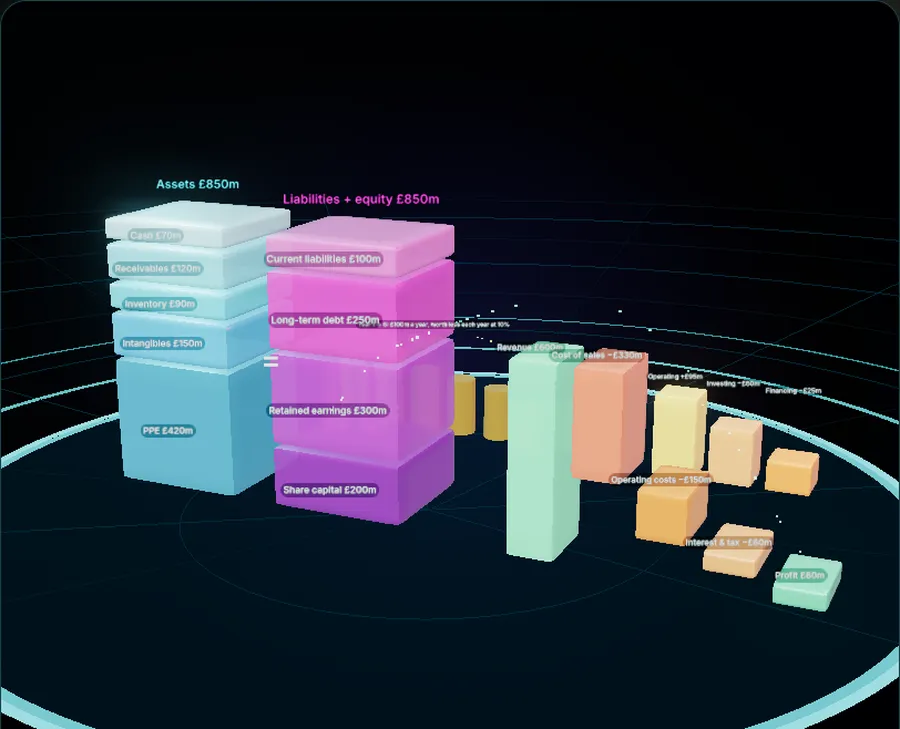
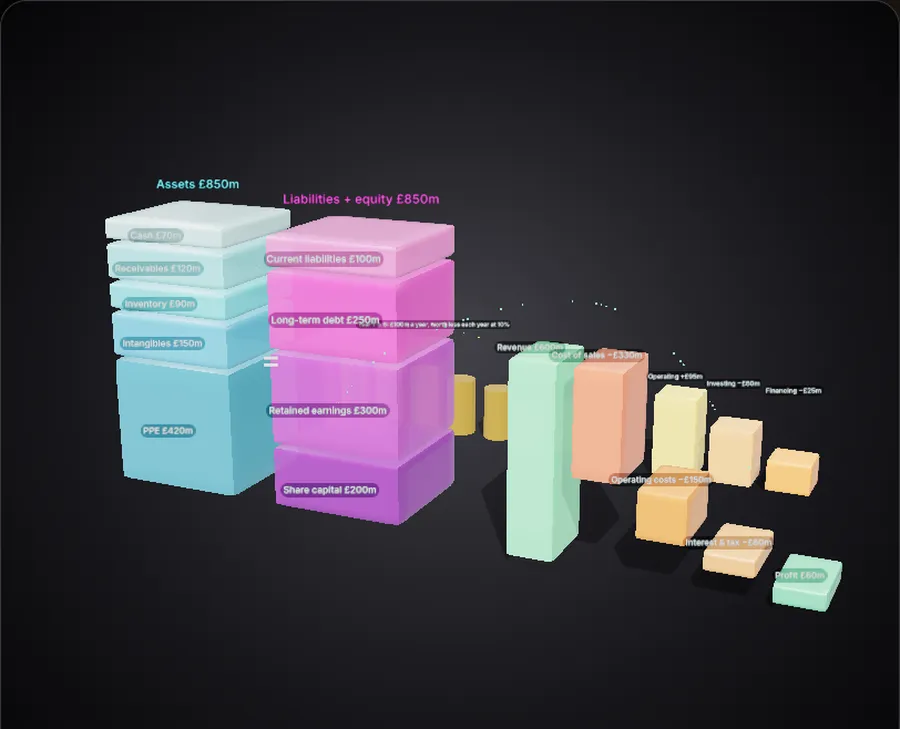
Realistic studio look for every 3D model, and atlas-style muscle layers
All sub-site models now use the anatomy-app look by default: a neutral grey
studio, white light with real shadows, no bloom or additive glow, and real
materials. Holographic skins become see-through skin or glass, glows become
solid colour, and self-lit emissive colour is removed. Materials get colour
texture (muscle striations with pale fascia streaks, mottled tissue, porous
bone) as well as bump detail.

A new wrap() helper builds muscles as curved sheets wrapping the trunk and
limbs, narrowing into pale tendons, with tendinous lines across rectus
abdominis. The body's muscle layer is rebuilt with it, adds trapezius,
latissimus dorsi, the obliques, gluteus maximus, triceps, forearm muscles,
hamstrings and tibialis anterior (each with facts, cards and notes), and is
now shown by default. The athlete's muscles are rebuilt the same way.

Claude-Session: https://claude.ai/code/session_01AmhgVexRWAuqiUPjDozXmm

diff --git a/kit/models/viewer.js b/kit/models/viewer.js
@@ -53,6 +53,27 @@ function detail(kind) {
   return (textures[kind] = t);
 }
 
+// a colour version of a detail texture, multiplied into the material's colour: muscle striations
+// with pale fascia streaks, mottled soft tissue, porous bone
+const tones = {};
+function tone(kind) {
+  if (kind === "none" || !kind) return null;
+  if (tones[kind]) return tones[kind];
+  const src = detail(kind).image, c = document.createElement("canvas"); c.width = src.width; c.height = src.height;
+  const g = c.getContext("2d"); g.drawImage(src, 0, 0);
+  const img = g.getImageData(0, 0, c.width, c.height), d = img.data;
+  const lo = { fibre: 0.62, bone: 0.86, fold: 0.8, tissue: 0.8 }[kind] ?? 0.82;
+  for (let i = 0; i < d.length; i += 4) {
+    let v = lo + (1 - lo) * (d[i] / 255);
+    let r = v, gg = v, b = v;
+    if (kind === "fibre" && d[i] > 235) { r = 1.25; gg = 1.18; b = 1.12; }   // thin pale streaks of fascia between fibre bundles
+    d[i] = Math.min(255, r * 235); d[i + 1] = Math.min(255, gg * 235); d[i + 2] = Math.min(255, b * 235);
+  }
+  g.putImageData(img, 0, 0);
+  const t = new THREE.CanvasTexture(c); t.wrapS = t.wrapT = THREE.RepeatWrapping; t.colorSpace = THREE.SRGBColorSpace;
+  return (tones[kind] = t);
+}
+
 // ---------- materials ----------
 // a hologram that glows at its edges (fresnel), so you see through it: skin, outlines, ghosts
 function holo(colour = "#5ef0ff", base = "#0d3b52", opacity = 0.55) {
@@ -73,6 +94,7 @@ function mat(c, { detail: d = "tissue", repeat = 2, bump = 0.6, ...extra } = {})
   const m = new THREE.MeshPhysicalMaterial({ color: c, roughness: 0.42, metalness: 0.02, clearcoat: 0.55, clearcoatRoughness: 0.35, sheen: 0.25, sheenColor: new THREE.Color(c).lerp(new THREE.Color("#ffffff"), 0.4), emissive: new THREE.Color(c).multiplyScalar(0.07), ...extra });
   const t = detail(d);
   if (t) { m.bumpMap = t.clone(); m.bumpMap.needsUpdate = true; m.bumpMap.repeat.set(repeat, repeat); m.bumpScale = bump; }
+  if (t && mat.realistic && !extra.map) { m.map = tone(d).clone(); m.map.needsUpdate = true; m.map.repeat.set(repeat, repeat); }
   return m;
 }
 const bone = (c = "#ece5d2") => mat(c, { detail: "bone", repeat: 3, bump: 0.8, roughness: 0.6, clearcoat: 0.15, sheen: 0, emissive: new THREE.Color("#221e15") });
@@ -145,14 +167,48 @@ function cut(geo, pt, n) {
   const out = new THREE.BufferGeometry(); out.setAttribute("position", new THREE.Float32BufferAttribute(keep, 3)); out.computeVertexNormals();
   return out;
 }
-const line = (pts, c, opacity = 0.8) => new THREE.Line(new THREE.BufferGeometry().setFromPoints(pts), new THREE.LineBasicMaterial({ color: c, transparent: true, opacity, blending: THREE.AdditiveBlending, depthWrite: false }));
-export const helpers = { V, holo, mat, bone, glow, limb, tube, taper, blob, lathe, box, text, line, detail, slice, cut };
+const line = (pts, c, opacity = 0.8) => new THREE.Line(new THREE.BufferGeometry().setFromPoints(pts), new THREE.LineBasicMaterial({ color: c, transparent: true, opacity, blending: mat.realistic ? THREE.NormalBlending : THREE.AdditiveBlending, depthWrite: false }));
+// a muscle that wraps part of the way round a limb or the trunk, like the muscle layer in an
+// anatomy atlas: a curved sheet over the axis a→b, between angles th0 and th1 (0 = lateral,
+// π/2 = front, −π/2 = back; side −1 mirrors it for the patient's right), lying on a surface of
+// radius r(t) (sx, sz squash it into an ellipse), swelling to `thick` in its belly. Its two ends
+// turn into pale tendon, and `bands` (fractions along it) add tendinous lines across it.
+function wrap({ a, b, r, th0, th1, side = 1, sx = 1, sz = 1, thick = 0.012, t0 = 0, t1 = 1, tendon = 0.14, bands = [], narrow = 0.55, colour = "#a8352c", segU = 48, segV = 28, front = new THREE.Vector3(0, 0, 1) }) {
+  const d = b.clone().sub(a).normalize(), Z = front.clone().sub(d.clone().multiplyScalar(front.dot(d))).normalize(), X = new THREE.Vector3().crossVectors(d, Z).normalize();
+  if (X.x < 0) X.negate();   // angle 0 always points to the model's +x side, whichever way the axis runs
+  const len = a.distanceTo(b), pos = [], uv = [], col = [], idx = [], c = new THREE.Color(colour), pale = new THREE.Color("#efe6d8"), tmp = new THREE.Color();
+  const rr = typeof r === "function" ? r : () => r;
+  for (let i = 0; i <= segU; i++) {
+    const u = i / segU, t = t0 + (t1 - t0) * u;
+    for (let j = 0; j <= segV; j++) {
+      // fusiform: the muscle narrows towards its tendons (narrow 0 keeps a flat sheet's full width)
+      const w = 1 - narrow * (1 - Math.sin(Math.PI * u) ** 0.8), vm = 0.5 + (j / segV - 0.5) * w, v = j / segV;
+      const th0s = side < 0 ? Math.PI - th0 : th0, th1s = side < 0 ? Math.PI - th1 : th1, th = th0s + (th1s - th0s) * vm;
+      const belly = Math.sin(Math.PI * u) ** 0.7 * Math.sin(Math.PI * v) ** 0.45;
+      let dip = 1; for (const bd of bands) dip *= 1 - 0.45 * Math.exp(-(((u - bd) / 0.014) ** 2));
+      const R = rr(t) + thick * belly * dip + 0.0015;
+      const p = a.clone().add(d.clone().multiplyScalar(t * len)).add(X.clone().multiplyScalar(Math.cos(th) * R * sx)).add(Z.clone().multiplyScalar(Math.sin(th) * R * sz));
+      pos.push(p.x, p.y, p.z); uv.push(v * Math.max(1, (Math.abs(th1 - th0) * rr(t)) / 0.1), u * Math.max(1, len * (t1 - t0) / 0.06));
+      const tend = Math.max(0, 1 - Math.min(u, 1 - u) / tendon) ** 2.2, line = 1 - dip;
+      tmp.copy(c).lerp(pale, Math.min(1, tend * 0.9 + line * 1.4)); col.push(tmp.r, tmp.g, tmp.b);
+    }
+  }
+  for (let i = 0; i < segU; i++) for (let j = 0; j < segV; j++) { const q = i * (segV + 1) + j; idx.push(q, q + segV + 1, q + 1, q + 1, q + segV + 1, q + segV + 2); }
+  const g = new THREE.BufferGeometry(); g.setAttribute("position", new THREE.Float32BufferAttribute(pos, 3)); g.setAttribute("uv", new THREE.Float32BufferAttribute(uv, 2)); g.setAttribute("color", new THREE.Float32BufferAttribute(col, 3)); g.setIndex(idx); g.computeVertexNormals();
+  const m = mat("#ffffff", { detail: "fibre", repeat: 1, bump: 1.6, roughness: 0.5, clearcoat: 0.45, vertexColors: true, side: THREE.DoubleSide, emissive: new THREE.Color("#000000"), sheen: 0.3, sheenColor: new THREE.Color("#ffc8b8") });
+  return new THREE.Mesh(g, m);
+}
+export const helpers = { V, holo, mat, bone, glow, limb, tube, taper, blob, lathe, box, text, line, detail, slice, cut, wrap };
 
 export async function mountModel(root, siteName, model) {
   const G = model.groups, S = model.structures;
   const cam = { pos: [0, 1, 3.6], target: [0, 0.9, 0], min: 0.06, max: 6, fov: 32, ...model.camera };
   const sliders = [...(model.sliders || []), ...(model.explode === false ? [] : [{ key: "explode", label: "Pull apart", value: 0 }])];
-  root.classList.add("mv"); if (model.look === "studio") root.classList.add("mv-studio");
+  // every model is shown like an anatomy app (studio light, real materials, no glow) unless it asks
+  // for the holographic look with look: "holo"
+  const studio = model.look !== "holo";
+  mat.realistic = studio;
+  root.classList.add("mv"); if (studio) root.classList.add("mv-studio");
   root.innerHTML = `
     <div class="mv-top-row">
       <div class="mv-stage">
@@ -192,11 +248,10 @@ export async function mountModel(root, siteName, model) {
   renderer.outputColorSpace = THREE.SRGBColorSpace;
   // "studio" models (the body) look like an anatomy atlas: a neutral backdrop, white studio light,
   // real shadows and no glow. The rest keep Gradify's holographic look.
-  const studio = model.look === "studio";
   if (studio) { renderer.shadowMap.enabled = true; renderer.shadowMap.type = THREE.PCFSoftShadowMap; renderer.toneMappingExposure = 1.0; }
   const scene = new THREE.Scene();
   const bg = document.createElement("canvas"); bg.width = bg.height = 512;
-  { const g = bg.getContext("2d"), r = g.createRadialGradient(256, 220, 10, 256, 256, 380); r.addColorStop(0, model.bg?.[0] || (studio ? "#4a4a4f" : "#123c4c")); r.addColorStop(0.55, model.bg?.[1] || (studio ? "#2a2a2e" : "#061620")); r.addColorStop(1, studio ? "#141416" : "#020609"); g.fillStyle = r; g.fillRect(0, 0, 512, 512); }
+  { const g = bg.getContext("2d"), r = g.createRadialGradient(256, 220, 10, 256, 256, 380); r.addColorStop(0, studio ? "#4a4a4f" : model.bg?.[0] || "#123c4c"); r.addColorStop(0.55, studio ? "#2a2a2e" : model.bg?.[1] || "#061620"); r.addColorStop(1, studio ? "#141416" : "#020609"); g.fillStyle = r; g.fillRect(0, 0, 512, 512); }   // the studio is always neutral grey
   scene.background = new THREE.CanvasTexture(bg); scene.background.colorSpace = THREE.SRGBColorSpace;
   const pmrem = new THREE.PMREMGenerator(renderer);
   scene.environment = pmrem.fromScene(new RoomEnvironment(), 0.04).texture;
@@ -250,8 +305,18 @@ export async function mountModel(root, siteName, model) {
   const body = new THREE.Group(); scene.add(body);
   const groups = {}; for (const k of Object.keys(G)) { groups[k] = new THREE.Group(); groups[k].visible = !G[k].off; body.add(groups[k]); }
   const pickables = [], parts = {}, ticks = [], flows = [], onSlider = {}, attached = [];
+  // in the studio look, the holographic helpers make real materials instead: see-through skin or
+  // glass in place of the fresnel hologram, solid colour in place of additive glow, no self-lighting
+  const studioHolo = (colour = "#5ef0ff", base, opacity = 0.35) => {
+    const skinTone = colour === "#5ef0ff";
+    const m = new THREE.MeshPhysicalMaterial({ color: skinTone ? "#d4a184" : colour, roughness: skinTone ? 0.55 : 0.2, sheen: skinTone ? 0.7 : 0, sheenColor: new THREE.Color("#ffd6c2"), clearcoat: skinTone ? 0.08 : 0.6, transparent: true, opacity: Math.min(0.45, opacity), depthWrite: false });
+    m.uniforms = { uOpacity: { get value() { return m.opacity; }, set value(v) { m.opacity = Math.min(0.6, v); } } };   // models fade skin through uOpacity
+    return m;
+  };
+  const studioGlow = (c, opacity = 0.9) => new THREE.MeshBasicMaterial({ color: c, transparent: opacity < 1, opacity, depthWrite: opacity >= 1 });
+  const studioMat = (c, o = {}) => helpers.mat(c, { ...o, emissive: o.emissive ? new THREE.Color(o.emissive).multiplyScalar(0.25) : new THREE.Color("#000000") });
   const k = {
-    THREE, ...helpers, scene, camera, root: body, groups,
+    THREE, ...helpers, ...(studio ? { holo: studioHolo, glow: studioGlow, mat: studioMat } : {}), scene, camera, root: body, groups,
     add(id, mesh) {
       if (!S[id]) throw new Error(`No structure called ${id}`);
       // a mesh, or a group of meshes that moves as one (a heart of chambers, a lung of lobes)
@@ -271,7 +336,7 @@ export async function mountModel(root, siteName, model) {
       const geo = new THREE.BufferGeometry(), pos = new Float32Array(n * 3), seeds = [];
       for (let i = 0; i < n; i++) seeds.push([i % curves.length, Math.random()]);
       geo.setAttribute("position", new THREE.BufferAttribute(pos, 3));
-      const pts = new THREE.Points(geo, new THREE.PointsMaterial({ color: colour, size, transparent: true, opacity: 0.95, blending: THREE.AdditiveBlending, depthWrite: false }));
+      const pts = new THREE.Points(geo, new THREE.PointsMaterial({ color: colour, size: studio ? size * 0.7 : size, transparent: true, opacity: studio ? 0.85 : 0.95, blending: studio ? THREE.NormalBlending : THREE.AdditiveBlending, depthWrite: false }));
       pts.frustumCulled = false;
       flows.push({ pts, curves, seeds, speed, pos });
       (grp ? groups[grp] : body).add(pts);

diff --git a/kit/models/athlete.js b/kit/models/athlete.js
@@ -118,13 +118,13 @@ export default {
   motion: "Running stride and heartbeat",
   camera: { pos: [1.4, 1.1, 3.0], target: [0, 0.95, 0], min: 0.05, max: 6 },
   views: { Front: [[0, 1.0, 3.4], [0, 0.95, 0]], Side: [[3.4, 1.0, 0], [0, 0.95, 0]], Back: [[0, 1.0, -3.4], [0, 0.95, 0]], Arms: [[0.9, 1.3, 1.1], [0.15, 1.25, 0]], Legs: [[0.9, 0.5, 1.4], [0.05, 0.5, 0]] },
-  sliders: [{ key: "skin", label: "Skin", value: 35 }],
+  sliders: [{ key: "skin", label: "Skin", value: 0 }],
   labelMax: 0.6,
   explode: false,
   build(k) {
     const { THREE, V, holo, mat, bone, limb, blob, add, decor } = k;
     const skinMat = holo(), M = (c) => mat(c, { detail: "fibre", repeat: 1, bump: 1.4, roughness: 0.45, clearcoat: 0.4 });
-    const red = M("#d24a40"), red2 = M("#b83a35"), b = bone();
+    const b = bone();
     // a rig of joints that the stride animates; muscles and skin hang off the segments
     const rig = {};
     const seg = (name, parent, pos) => { const g = new THREE.Group(); g.position.copy(pos); (parent ? rig[parent] : null)?.add(g) ?? decor(g); rig[name] = g; return g; };
@@ -146,31 +146,47 @@ export default {
       rig["arm" + n].add(limb(V(0, 0, 0), V(0, -0.28, 0), 0.045, skinMat)); rig["fore" + n].add(limb(V(0, 0, 0), V(0, -0.3, 0), 0.035, skinMat));
       for (const [g, a, bb, r] of [["thigh", 0, -0.43, 0.014], ["shin", 0, -0.42, 0.011], ["arm", 0, -0.28, 0.01], ["fore", 0, -0.29, 0.008]]) { const m = limb(V(0, a, 0), V(0, bb, 0), r, b); rig[g + n].add(m); }
     }
-    // muscles, added to their segments so they move with the stride
+    // muscles, wrapped round each segment like an anatomy figure's muscle layer, and added to the
+    // segments so they move with the stride
     const put = (id, parent, mesh) => { rig[parent].add(mesh); add(id, mesh); return mesh; };
+    const P = Math.PI, col = "#b03a30";
+    // the trunk's surface (in pelvis coordinates), matching the torso shape above
+    const trunkR = (y) => { const yl = y - 0.24, base = 0.16 * Math.sqrt(Math.max(0.02, 1 - (yl / 0.248) ** 2)); return base * (yl > 0.1 ? 1 + (yl - 0.1) * 1.2 : 1); };
+    const trunk = (id, seg, y0, y1, th0, th1, sd, o = {}) => { const off = seg === "chest" ? 0.45 : 0; return put(id, seg, k.wrap({ a: V(0, y0 - off, 0), b: V(0, y1 - off, 0), r: (t) => Math.max(o.min || 0, trunkR(y0 + (y1 - y0) * t)), sz: 0.66, th0, th1, side: sd, narrow: 0.15, colour: col, ...o })); };
     for (const sd of [-1, 1]) {
       const n = sd < 0 ? "R" : "L";
-      const del = new THREE.Mesh(blob(0.045, 0.8, 1.2, 1, (v) => { if (v.y < 0) { v.x *= 1 + v.y * 4; v.z *= 1 + v.y * 4; } }), red); del.position.set(0, -0.02, 0); put("deltoid", "arm" + n, del);
-      const pec = new THREE.Mesh(blob(0.075, 1, 0.7, 0.22), red2); pec.position.set(sd * 0.08, -0.06, 0.08); pec.rotation.y = sd * 0.3; put("pectoralis", "chest", pec);
-      const bic = new THREE.Mesh(blob(0.032, 0.9, 3.4, 1), red); bic.position.set(0, -0.14, 0.03); put("biceps", "arm" + n, bic);
-      const tri = new THREE.Mesh(blob(0.034, 0.9, 3.4, 1), red2); tri.position.set(0, -0.13, -0.035); put("biceps", "arm" + n, tri);
-      const lat = new THREE.Mesh(blob(0.1, 0.6, 1.6, 0.25), red2); lat.position.set(sd * 0.1, -0.14, -0.085); lat.rotation.z = sd * -0.2; put("lats", "chest", lat);
-      const trap = new THREE.Mesh(blob(0.06, 1, 0.9, 0.22), red); trap.position.set(sd * 0.055, 0.03, -0.075); put("lats", "chest", trap);
-      const obl = new THREE.Mesh(blob(0.07, 0.5, 1.3, 0.6), red2); obl.position.set(sd * 0.12, 0.2, 0.05); put("abdominals", "pelvis", obl);
-      const ere = new THREE.Mesh(blob(0.03, 0.8, 7, 0.9), red); ere.position.set(sd * 0.035, 0.25, -0.09); put("erector", "pelvis", ere);
-      const glu = new THREE.Mesh(blob(0.085, 1, 1, 0.8), red2); glu.position.set(sd * 0.085, -0.04, -0.07); put("glutes", "pelvis", glu);
-      const quad = new THREE.Mesh(blob(0.065, 1, 3.3, 0.9), red); quad.position.set(0, -0.2, 0.035); put("quadriceps", "thigh" + n, quad);
-      const ham = new THREE.Mesh(blob(0.055, 1, 3.4, 0.9), red2); ham.position.set(0, -0.21, -0.04); put("hamstrings", "thigh" + n, ham);
-      const calf = new THREE.Mesh(blob(0.045, 1, 2.6, 1.05, (v) => { if (v.y < 0) { v.x *= 1 + v.y * 5; v.z *= 1 + v.y * 5; } }), red); calf.position.set(0, -0.12, -0.04); put("calves", "shin" + n, calf);
-      // joints
-      const sj = new THREE.Mesh(new THREE.SphereGeometry(0.035, 24, 24), mat("#7ee0ff", { detail: "none", transmission: 0.4, thickness: 0.05, roughness: 0.2 })); put("shoulderJoint", "arm" + n, sj);
-      const kn = new THREE.Mesh(new THREE.SphereGeometry(0.035, 24, 24), mat("#7ee0ff", { detail: "none", transmission: 0.4, thickness: 0.05, roughness: 0.2 })); put("knee", "shin" + n, kn);
-      const hp = new THREE.Mesh(new THREE.SphereGeometry(0.038, 24, 24), mat("#7ee0ff", { detail: "none", transmission: 0.4, thickness: 0.05, roughness: 0.2 })); put("hip", "thigh" + n, hp);
+      const seg = (id, parent, len, r, th0, th1, o = {}) => put(id, parent, k.wrap({ a: V(0, 0, 0), b: V(0, -len, 0), r, th0, th1, side: sd, colour: col, ...o }));
+      trunk("pectoralis", "chest", 0.29, 0.45, 0.1 * P, 0.49 * P, sd, { thick: 0.018, tendon: 0.06, narrow: 0.3 });
+      trunk("lats", "chest", 0.08, 0.42, 0.06 * P, -0.45 * P, sd, { thick: 0.012, tendon: 0.1 });
+      trunk("lats", "chest", 0.38, 0.5, -0.2 * P, -0.49 * P, sd, { thick: 0.012, tendon: 0.12, min: 0.07 });   // trapezius
+      trunk("abdominals", "pelvis", 0.02, 0.3, 0.385 * P, 0.49 * P, sd, { thick: 0.012, tendon: 0.04, bands: [0.45, 0.65, 0.85], narrow: 0.1 });
+      trunk("abdominals", "pelvis", 0.04, 0.34, -0.06 * P, 0.4 * P, sd, { thick: 0.009, tendon: 0.08 });   // obliques
+      trunk("erector", "pelvis", 0.04, 0.42, -0.42 * P, -0.5 * P, sd, { thick: 0.014, tendon: 0.1, narrow: 0.2 });
+      trunk("glutes", "pelvis", -0.12, 0.08, -0.04 * P, -0.47 * P, sd, { thick: 0.03, tendon: 0.1, min: 0.13 });
+      seg("deltoid", "arm" + n, 0.12, (t) => 0.048 - 0.01 * t, -0.42 * P, 0.55 * P, { t0: -0.2, thick: 0.014, tendon: 0.1 });
+      seg("biceps", "arm" + n, 0.28, (t) => 0.042 - 0.008 * t, 0.25 * P, 0.75 * P, { t0: 0.15, t1: 0.95, thick: 0.013 });
+      seg("biceps", "arm" + n, 0.28, (t) => 0.042 - 0.008 * t, -0.8 * P, -0.15 * P, { t0: 0.1, t1: 0.92, thick: 0.013 });   // triceps
+      seg("biceps", "fore" + n, 0.3, (t) => 0.034 - 0.012 * t, -0.95 * P, 0.95 * P, { t0: 0.02, t1: 0.8, thick: 0.01, tendon: 0.28 });   // forearm
+      seg("quadriceps", "thigh" + n, 0.43, (t) => 0.07 - 0.022 * t, -0.05 * P, 0.95 * P, { t0: 0.05, t1: 0.97, thick: 0.018, tendon: 0.12 });
+      seg("hamstrings", "thigh" + n, 0.43, (t) => 0.07 - 0.022 * t, -0.95 * P, -0.1 * P, { t0: 0.1, t1: 0.94, thick: 0.015, tendon: 0.14 });
+      seg("calves", "shin" + n, 0.42, (t) => 0.046 - 0.018 * t, -0.95 * P, -0.05 * P, { t0: 0.03, t1: 0.62, thick: 0.022, tendon: 0.16 });
+      seg("calves", "shin" + n, 0.42, (t) => 0.046 - 0.018 * t, 0.12 * P, 0.48 * P, { t0: 0.08, t1: 0.88, thick: 0.008, tendon: 0.3 });   // tibialis anterior
+      const tend = mat("#ece2d0", { detail: "fibre", repeat: 1, bump: 0.4, roughness: 0.35, clearcoat: 0.6 });
+      rig["shin" + n].add(limb(V(0, -0.24, -0.055), V(0, -0.42, -0.04), 0.006, tend));   // Achilles tendon
+      const hand = new THREE.Mesh(blob(0.035, 0.75, 1.5, 0.95), tend); hand.position.set(0, -0.34, 0); rig["fore" + n].add(hand);
+      const foot = limb(V(0, 0, -0.02), V(0, -0.03, 0.13), 0.026, tend); rig["foot" + n].add(foot);
+      // joints: pale capsules where the bones meet
+      const capsule = () => mat("#e6dccb", { detail: "tissue", repeat: 3, roughness: 0.35, clearcoat: 0.6 });
+      const sj = new THREE.Mesh(new THREE.SphereGeometry(0.035, 24, 24), capsule()); put("shoulderJoint", "arm" + n, sj);
+      const kn = new THREE.Mesh(new THREE.SphereGeometry(0.035, 24, 24), capsule()); put("knee", "shin" + n, kn);
+      const hp = new THREE.Mesh(new THREE.SphereGeometry(0.038, 24, 24), capsule()); put("hip", "thigh" + n, hp);
     }
-    for (let i = 0; i < 4; i++) for (const sd of [-1, 1]) { const ab = new THREE.Mesh(blob(0.025, 1, 1.15, 0.45), red); ab.position.set(sd * 0.03, 0.06 + i * 0.065, 0.1); put("abdominals", "pelvis", ab); }
-    const heart = new THREE.Mesh(blob(0.055, 1, 1.15, 0.9, (v) => { if (v.y < 0) { const q = 1 + v.y * 9; v.x *= q; v.z *= q; } }), mat("#ff4d6d", { detail: "fibre", repeat: 2 })); heart.position.set(0.02, -0.12, 0.03); heart.rotation.z = -0.5; put("heart", "chest", heart);
+    // the head: facial muscles over the skull
+    const head2 = new THREE.Mesh(blob(0.1, 0.88, 1.12, 1, (v) => { if (v.y < -0.03 && v.z > 0) v.z *= 0.9; }), M("#b44a3e")); head2.position.set(0, 0.3, 0.01); rig.chest.add(head2);
+    rig.chest.add(limb(V(0, 0.05, -0.01), V(0, 0.2, 0.0), 0.042, M("#a8382e")));   // neck
+    const heart = new THREE.Mesh(blob(0.055, 1, 1.15, 0.9, (v) => { if (v.y < 0) { const q = 1 + v.y * 9; v.x *= q; v.z *= q; } }), mat("#8c2422", { detail: "fibre", repeat: 2 })); heart.position.set(0.02, -0.12, 0.03); heart.rotation.z = -0.5; put("heart", "chest", heart);
     const lungs = [];
-    for (const sd of [-1, 1]) { const lu = new THREE.Mesh(blob(0.09, 0.75, 1.4, 0.75, (v) => { if (v.x * sd < 0) v.x *= 0.45; }), mat("#7cc8ff", { repeat: 5, transmission: 0.2, thickness: 0.05, roughness: 0.5 })); lu.position.set(sd * 0.08, -0.12, 0); put("lungs", "chest", lu); lungs.push(lu); }
+    for (const sd of [-1, 1]) { const lu = new THREE.Mesh(blob(0.09, 0.75, 1.4, 0.75, (v) => { if (v.x * sd < 0) v.x *= 0.45; }), mat("#d18882", { repeat: 6, roughness: 0.55 })); lu.position.set(sd * 0.08, -0.12, 0); put("lungs", "chest", lu); lungs.push(lu); }
     // skin visibility
     const skinMeshes = []; Object.values(rig).forEach((g) => g.traverse((o) => { if (o.material === skinMat) skinMeshes.push(o); }));
     k.slider("skin", (v) => { skinMat.uniforms.uOpacity.value = v; skinMeshes.forEach((m) => { m.visible = v > 0; }); });

diff --git a/kit/models/body.js b/kit/models/body.js
@@ -32,19 +32,19 @@ export default {
     // real skin, not a hologram: fade it in with the slider to see the body's outline over the anatomy
     const skinMat = new THREE.MeshPhysicalMaterial({ color: "#d4a184", roughness: 0.55, sheen: 0.7, sheenColor: new THREE.Color("#ffd6c2"), sheenRoughness: 0.6, clearcoat: 0.08, transparent: true, opacity: 0.3, depthWrite: false, side: THREE.FrontSide });
     const skin = new THREE.Group();
-    const torso = lathe([[0.0, 0.855], [0.06, 0.862], [0.115, 0.89], [0.158, 0.94], [0.17, 1.0], [0.155, 1.06], [0.135, 1.12], [0.142, 1.2], [0.16, 1.3], [0.172, 1.38], [0.175, 1.43], [0.15, 1.475], [0.08, 1.5], [0.05, 1.515], [0.0, 1.52]], skinMat, 128);
-    torso.scale.set(1, 1, 0.6); skin.add(torso);
+    const torso = lathe([[0.0, 0.855], [0.06, 0.862], [0.115, 0.89], [0.158, 0.94], [0.172, 1.0], [0.168, 1.06], [0.162, 1.12], [0.164, 1.2], [0.16, 1.3], [0.172, 1.38], [0.175, 1.43], [0.15, 1.475], [0.08, 1.5], [0.05, 1.515], [0.0, 1.52]], skinMat, 128);
+    torso.scale.set(1.1, 1, 0.86); skin.add(torso);
     skin.add(taper([V(0, 1.49, -0.005), V(0, 1.56, 0.0), V(0, 1.62, 0.01)], 0.052, 0.046, skinMat, 24));
     const head = new THREE.Mesh(blob(0.105, 0.88, 1.16, 1.02, (v) => { if (v.y < -0.03 && v.z > 0) v.z *= 0.92; if (v.y < -0.05) { v.x *= 0.85; } if (v.z > 0.08 && Math.abs(v.x) < 0.02 && v.y > -0.03 && v.y < 0.02) v.z += 0.012; }, 96), skinMat); head.position.set(0, 1.71, 0.005); skin.add(head);
     const joint = (p, r) => { const m = new THREE.Mesh(new THREE.SphereGeometry(r, 32, 24), skinMat); m.position.copy(p); skin.add(m); };
     for (const s of L) {
       const sh = V(s * 0.175, 1.42, 0), el = V(s * 0.24, 1.15, -0.01), wr = V(s * 0.27, 0.9, 0.04), hp = V(s * 0.095, 0.93, 0), kn = V(s * 0.1, 0.52, 0.005), an = V(s * 0.11, 0.08, -0.015);
-      joint(sh, 0.05); joint(el, 0.034); joint(kn, 0.05);
-      skin.add(taper([sh, sh.clone().lerp(el, 0.5).add(V(s * 0.005, 0, 0)), el], 0.047, 0.034, skinMat, 32));
-      skin.add(taper([el, el.clone().lerp(wr, 0.4).add(V(0, 0, 0.006)), wr], 0.036, 0.024, skinMat, 32));
+      joint(sh, 0.058); joint(el, 0.042); joint(kn, 0.058);
+      skin.add(taper([sh, sh.clone().lerp(el, 0.5).add(V(s * 0.005, 0, 0)), el], 0.058, 0.042, skinMat, 32));
+      skin.add(taper([el, el.clone().lerp(wr, 0.4).add(V(0, 0, 0.006)), wr], 0.044, 0.03, skinMat, 32));
       const hand = new THREE.Mesh(blob(0.036, 0.75, 1.6, 0.95), skinMat); hand.position.copy(wr).add(V(s * 0.004, -0.06, 0.008)); hand.rotation.z = s * 0.05; skin.add(hand);
-      skin.add(taper([V(s * 0.075, 1.0, 0), hp, hp.clone().lerp(kn, 0.4).add(V(s * 0.006, 0, 0.008)), kn], 0.085, 0.05, skinMat, 40));   // starts inside the hips so its open end is hidden
-      skin.add(taper([kn, kn.clone().lerp(an, 0.3).add(V(0, 0, -0.012)), an], 0.05, 0.03, skinMat, 32));
+      skin.add(taper([V(s * 0.075, 1.0, 0), hp, hp.clone().lerp(kn, 0.4).add(V(s * 0.006, 0, 0.008)), kn], 0.095, 0.06, skinMat, 40));   // starts inside the hips so its open end is hidden
+      skin.add(taper([kn, kn.clone().lerp(an, 0.3).add(V(0, 0, -0.012)), an], 0.07, 0.036, skinMat, 32));
       const foot = new THREE.Mesh(blob(0.04, 0.85, 0.55, 2.2, (v) => { if (v.z < 0) v.y *= 1.4; }), skinMat); foot.position.set(s * 0.115, 0.035, 0.04); skin.add(foot);
     }
     for (const sd of L) { const ear = new THREE.Mesh(blob(0.022, 0.35, 1, 0.7), skinMat); ear.position.set(sd * 0.093, 1.7, -0.005); skin.add(ear); }
@@ -112,21 +112,37 @@ export default {
       add("leg", limb(V(s * 0.11, 0.06, -0.035), V(s * 0.12, 0.035, 0.11), 0.012, b));
     }
 
-    // ---------- muscular (hidden at first) ----------
+    // ---------- muscular ----------
+    // muscles wrap the trunk and limbs like the muscle layer of an anatomy atlas: striated fibres,
+    // pale tendons at each end, tendinous lines across rectus abdominis
     const mus = (c = "#9e2f28") => mat(c, { detail: "fibre", repeat: 1, bump: 1.2, roughness: 0.5, clearcoat: 0.35 });
     const M = mus(), tendon = mat("#e9e0cc", { detail: "fibre", repeat: 1, bump: 0.4, roughness: 0.35, clearcoat: 0.6 });
+    const prof = [[0.06, 0.862], [0.115, 0.89], [0.158, 0.94], [0.172, 1.0], [0.168, 1.06], [0.162, 1.12], [0.164, 1.2], [0.16, 1.3], [0.172, 1.38], [0.175, 1.43], [0.15, 1.475], [0.08, 1.5]];
+    const rT = (y) => { for (let n = 1; n < prof.length; n++) if (y <= prof[n][1]) { const [r0, y0] = prof[n - 1], [r1, y1] = prof[n]; return r0 + (r1 - r0) * Math.max(0, (y - y0) / (y1 - y0)); } return prof[prof.length - 1][0]; };
+    const trunk = (id, y0, y1, th0, th1, s, o = {}) => add(id, k.wrap({ a: V(0, y0, 0), b: V(0, y1, 0), r: (t) => Math.max(o.min || 0, rT(y0 + (y1 - y0) * t) * 0.96), sx: 1.02, sz: 0.78, th0, th1, side: s, colour: "#a3322b", narrow: 0.15, ...o }));
+    const P = Math.PI;
     for (const s of L) {
+      const sh = V(s * 0.175, 1.42, 0), el = V(s * 0.24, 1.15, -0.01), wr = V(s * 0.27, 0.9, 0.04), hp = V(s * 0.095, 0.93, 0), kn = V(s * 0.1, 0.52, 0.005), an = V(s * 0.11, 0.08, -0.015);
+      const limbW = (id, a, b, r, th0, th1, o = {}) => add(id, k.wrap({ a, b, r, th0, th1, side: s, colour: "#a3322b", ...o }));
+      trunk("pectoralis", 1.25, 1.47, 0.1 * P, 0.49 * P, s, { thick: 0.018, tendon: 0.06, narrow: 0.3 });
+      trunk("rectus", 0.9, 1.3, 0.385 * P, 0.49 * P, s, { thick: 0.012, tendon: 0.04, bands: [0.5, 0.68, 0.86], narrow: 0.1 });
+      trunk("obliques", 0.92, 1.34, -0.06 * P, 0.4 * P, s, { thick: 0.009, tendon: 0.08 });
+      trunk("latissimus", 1.06, 1.38, -0.08 * P, -0.43 * P, s, { thick: 0.009, tendon: 0.12 });
+      trunk("trapezius", 1.32, 1.5, -0.22 * P, -0.49 * P, s, { thick: 0.01, tendon: 0.12 });
+      trunk("gluteus", 0.84, 1.0, -0.06 * P, -0.47 * P, s, { thick: 0.026, tendon: 0.1, min: 0.14 });
+      limbW("deltoid", V(s * 0.165, 1.47, 0), el, (t) => 0.05 - 0.012 * t, -0.55 * P, 0.65 * P, { t1: 0.42, thick: 0.014, tendon: 0.1 });
+      limbW("biceps", sh, el, (t) => 0.042 - 0.009 * t, 0.25 * P, 0.75 * P, { t0: 0.18, t1: 0.95, thick: 0.012 });
+      limbW("triceps", sh, el, (t) => 0.042 - 0.009 * t, -0.8 * P, -0.15 * P, { t0: 0.12, t1: 0.92, thick: 0.012 });
+      limbW("forearmMuscles", el, wr, (t) => 0.033 - 0.012 * t, -0.95 * P, 0.95 * P, { t0: 0.02, t1: 0.8, thick: 0.01, tendon: 0.28 });
+      limbW("quadriceps", hp, kn, (t) => 0.072 - 0.024 * t, -0.05 * P, 0.95 * P, { t0: 0.06, t1: 0.97, thick: 0.016, tendon: 0.12 });
+      limbW("hamstrings", hp, kn, (t) => 0.072 - 0.024 * t, -0.95 * P, -0.1 * P, { t0: 0.1, t1: 0.94, thick: 0.014, tendon: 0.14 });
+      limbW("gastrocnemius", kn, an, (t) => 0.046 - 0.018 * t, -0.95 * P, -0.05 * P, { t0: 0.03, t1: 0.62, thick: 0.02, tendon: 0.16 });
+      limbW("tibialisAnterior", kn, an, (t) => 0.046 - 0.018 * t, 0.12 * P, 0.48 * P, { t0: 0.08, t1: 0.88, thick: 0.008, tendon: 0.3 });
+      if (s > 0) add("rectus", k.wrap({ a: V(0, 0.88, 0), b: V(0, 1.31, 0), r: (t) => rT(0.88 + 0.43 * t) * 0.96, sx: 1.02, sz: 0.78, th0: 0.475 * P, th1: 0.525 * P, thick: 0.009, narrow: 0, tendon: 0.5, colour: "#e8ddca" }));   // linea alba
       add("scm", taper([V(s * 0.06, 1.665, -0.015), V(s * 0.05, 1.6, 0.02), V(s * 0.025, 1.49, 0.06)], 0.012, 0.009, M, 32));
-      const del = new THREE.Mesh(blob(0.05, 0.75, 1.2, 0.95, (v) => { if (v.y < 0) { v.x *= 1 + v.y * 4; v.z *= 1 + v.y * 4; } }), M); del.position.set(s * 0.19, 1.39, 0); del.rotation.z = s * 0.25; add("deltoid", del);
-      const pec = new THREE.Mesh(blob(0.08, 1, 0.75, 0.22, (v) => { if (v.x * s > 0.03) v.y *= 1 - (v.x * s - 0.03) * 8; }), M); pec.position.set(s * 0.085, 1.37, 0.1); pec.rotation.set(-0.1, s * 0.3, s * -0.2); add("pectoralis", pec);
-      const bic = new THREE.Mesh(blob(0.026, 0.95, 3.6, 1, (v) => { const t = 1 - Math.abs(v.y) / 0.094; v.x *= 0.4 + 0.6 * t; v.z *= 0.4 + 0.6 * t; }), M); bic.position.set(s * 0.215, 1.27, 0.03); bic.rotation.z = s * 0.23; add("biceps", bic);
-      for (let i = 0; i < 4; i++) { const seg = box(0.045, 0.058, 0.014, M, 0.006); seg.position.set(s * 0.027, 1.17 - i * 0.065, 0.085 + (i > 2 ? -0.008 : 0)); add("rectus", seg); }
-      const quad = new THREE.Mesh(blob(0.06, 1, 3.4, 0.9, (v) => { const t = 1 - Math.abs(v.y) / 0.2; v.x *= 0.35 + 0.65 * t; v.z *= 0.35 + 0.65 * t; }), M); quad.position.set(s * 0.1, 0.72, 0.035); quad.rotation.z = s * -0.04; add("quadriceps", quad);
-      add("quadriceps", limb(V(s * 0.1, 0.54, 0.04), V(s * 0.1, 0.45, 0.03), 0.008, tendon));
-      for (const h of [-1, 1]) { const g = new THREE.Mesh(blob(0.03, 1, 3, 1.1, (v) => { if (v.y < 0) { v.x *= 1 + v.y * 6; } }), M); g.position.set(s * 0.1 + h * 0.016, 0.38, -0.04); add("gastrocnemius", g); }
-      add("gastrocnemius", limb(V(s * 0.105, 0.28, -0.045), V(s * 0.11, 0.06, -0.05), 0.006, tendon));
+      add("quadriceps", limb(V(s * 0.1, 0.54, 0.05), V(s * 0.1, 0.45, 0.04), 0.008, tendon));   // patellar ligament
+      add("gastrocnemius", limb(V(s * 0.105, 0.3, -0.06), V(s * 0.11, 0.06, -0.05), 0.006, tendon));   // calcaneal (Achilles) tendon
     }
-    add("rectus", limb(V(0, 1.24, 0.088), V(0, 0.9, 0.06), 0.003, tendon));   // linea alba
 
     // ---------- nervous ----------
     const brainMat = mat("#e3b4a6", { detail: "fold", repeat: 3, bump: 2.2, roughness: 0.55 });

diff --git a/kit/models/body-data.js b/kit/models/body-data.js
@@ -5,7 +5,7 @@
 
 export const GROUPS = {
   skeletal: { name: "Skeletal", c: "#e9e3d3" },
-  muscular: { name: "Muscular", c: "#ff6b5e", off: true },   // hidden at first: the muscles cover the organs
+  muscular: { name: "Muscular", c: "#ff6b5e" },
   nervous: { name: "Nervous", c: "#ffe066" },
   cardiovascular: { name: "Cardiovascular", c: "#ff4d6d" },
   respiratory: { name: "Respiratory", c: "#7cc8ff" },
@@ -97,6 +97,39 @@ export const STRUCTURES = {
     ["Plantarflexes the ankle and flexes the knee; supplied by the **tibial nerve (S1–2)**.", "The ankle jerk tests **S1**.", "Achilles rupture: a positive **Simmonds' (Thompson's) test**, no plantarflexion when the calf is squeezed."],
     [["Which nerve root does the ankle jerk test?", "S1."], ["Describe Simmonds' test.", "Squeeze the calf with the patient prone: no plantarflexion suggests an Achilles tendon rupture."], ["What nerve supplies gastrocnemius?", "The tibial nerve."]],
     ["gastrocnemius", "calf", "achilles", "soleus", "plantarflex"]),
+
+  trapezius: s("muscular", "Trapezius", "A flat triangular muscle from the occiput and the spines of C7–T12 to the clavicle, acromion and scapular spine.",
+    ["Upper fibres elevate the scapula (shrug); middle fibres retract it; lower fibres depress it. Upper and lower fibres together rotate it upward for overhead reach.", "Motor supply is the **spinal accessory nerve (CN XI)**, at risk in posterior triangle lymph node biopsy.", "XI palsy: weak shrug, drooping shoulder and difficulty abducting above 90°."],
+    [["What is the motor nerve to trapezius?", "The spinal accessory nerve (CN XI)."], ["Which nerve is at risk in a posterior triangle lymph node biopsy?", "The spinal accessory nerve, causing trapezius weakness."], ["Which two muscles rotate the scapula upward for overhead abduction?", "Trapezius (upper and lower fibres) and serratus anterior."]],
+    ["trapezius", "accessory nerve", "shrug", "scapula"]),
+  latissimus: s("muscular", "Latissimus dorsi", "The broad back muscle from the lower thoracic spines, thoracolumbar fascia and iliac crest to the floor of the bicipital groove.",
+    ["Extends, adducts and medially rotates the humerus: climbing, rowing, pull-ups.", "Supplied by the **thoracodorsal nerve (C6–8)**.", "Used as a pedicled flap in breast reconstruction (blood supply: thoracodorsal artery)."],
+    [["What actions does latissimus dorsi perform?", "Extension, adduction and medial rotation of the shoulder."], ["What nerve supplies latissimus dorsi?", "The thoracodorsal nerve (C6–C8)."], ["Why is latissimus dorsi used in breast reconstruction?", "It's a large muscle with a reliable pedicle (thoracodorsal vessels) that can be rotated onto the chest."]],
+    ["latissimus", "lats", "thoracodorsal", "back muscle"]),
+  obliques: s("muscular", "External and internal obliques", "The flat muscles of the anterolateral abdominal wall. External oblique fibres run down and forward ('hands in pockets'); internal oblique at right angles to them.",
+    ["Their aponeuroses form the rectus sheath and the inguinal canal; the lower border of external oblique is the inguinal ligament.", "Together they flex and rotate the trunk and raise intra-abdominal pressure.", "Supplied by the lower intercostal nerves (T7–11), subcostal (T12) and iliohypogastric/ilioinguinal (L1)."],
+    [["Which way do external oblique fibres run?", "Inferomedially, like hands in your pockets."], ["What forms the inguinal ligament?", "The folded lower border of the external oblique aponeurosis."], ["What nerves supply the abdominal wall muscles?", "T7–T12 (intercostal and subcostal nerves) and L1 (iliohypogastric and ilioinguinal)."]],
+    ["oblique", "abdominal wall", "inguinal ligament", "aponeurosis"]),
+  gluteus: s("muscular", "Gluteus maximus", "The largest muscle in the body, from the ilium, sacrum and coccyx to the iliotibial tract and gluteal tuberosity.",
+    ["The main **extensor of the hip**: climbing stairs, rising from sitting, running.", "Supplied by the **inferior gluteal nerve (L5–S2)**; gluteus medius and minimus by the superior gluteal nerve.", "Injections go in the upper outer quadrant to avoid the sciatic nerve, which emerges beneath gluteus maximus."],
+    [["What is the main action of gluteus maximus?", "Extension (and lateral rotation) of the hip."], ["What nerve supplies gluteus maximus?", "The inferior gluteal nerve (L5–S2)."], ["Which nerve lies beneath gluteus maximus?", "The sciatic nerve."]],
+    ["gluteus", "glute", "buttock", "hip extension", "inferior gluteal"]),
+  triceps: s("muscular", "Triceps brachii", "Three heads (long from the infraglenoid tubercle, lateral and medial from the humerus) inserting on the olecranon.",
+    ["The main **extensor of the elbow**.", "Supplied by the **radial nerve (C7)**; the triceps reflex tests C7.", "The radial nerve runs in the spiral groove between the lateral and medial heads."],
+    [["What nerve supplies triceps?", "The radial nerve."], ["Which root does the triceps reflex test?", "C7."], ["Where does triceps insert?", "The olecranon of the ulna."]],
+    ["triceps", "elbow extension", "radial nerve", "olecranon"]),
+  forearmMuscles: s("muscular", "Forearm muscles", "Flexors on the front (from the medial epicondyle) and extensors on the back (from the lateral epicondyle), with long tendons into the hand.",
+    ["Most flexors are supplied by the **median nerve**; flexor carpi ulnaris and half of flexor digitorum profundus by the ulnar. All extensors by the **radial nerve** (posterior interosseous).", "**Tennis elbow**: lateral epicondylitis of the common extensor origin; **golfer's elbow**: medial epicondylitis.", "The tendons pass through the carpal tunnel (flexors) and six dorsal compartments (extensors)."],
+    [["Which nerve supplies most forearm flexors?", "The median nerve (with the ulnar nerve for FCU and the ulnar half of FDP)."], ["What is tennis elbow?", "Lateral epicondylitis: tendinopathy at the common extensor origin."], ["Which nerve supplies the forearm extensors?", "The radial nerve (posterior interosseous branch)."]],
+    ["forearm", "flexor", "extensor", "epicondyl", "tennis elbow", "carpal tunnel"]),
+  hamstrings: s("muscular", "Hamstrings", "Biceps femoris, semitendinosus and semimembranosus, from the ischial tuberosity to the tibia and fibula.",
+    ["Flex the knee and extend the hip.", "Supplied by the **sciatic nerve** (tibial division; the short head of biceps femoris by the common fibular).", "Strains are common in sprinting, usually at the musculotendinous junction of biceps femoris."],
+    [["Name the three hamstring muscles.", "Biceps femoris, semitendinosus and semimembranosus."], ["What nerve supplies the hamstrings?", "The sciatic nerve (mainly its tibial division)."], ["Where do the hamstrings originate?", "The ischial tuberosity (except the short head of biceps femoris)."]],
+    ["hamstring", "biceps femoris", "semitendinosus", "knee flexion"]),
+  tibialisAnterior: s("muscular", "Tibialis anterior", "Runs down the front of the shin from the lateral tibia to the medial cuneiform and first metatarsal.",
+    ["**Dorsiflexes and inverts** the foot.", "Supplied by the **deep fibular nerve (L4–5)**: weakness gives foot drop.", "Anterior compartment syndrome affects it first: pain on passive plantarflexion."],
+    [["What actions does tibialis anterior perform?", "Dorsiflexion and inversion of the foot."], ["What nerve supplies tibialis anterior?", "The deep fibular (peroneal) nerve, L4–L5."], ["What sign suggests anterior compartment syndrome?", "Severe pain on passive plantarflexion of the foot/toes."]],
+    ["tibialis anterior", "dorsiflexion", "foot drop", "deep fibular", "shin"]),
 
   // ---------- nervous ----------
   cerebrum: s("nervous", "Cerebrum", "Two hemispheres of cortex and white matter, divided into frontal, parietal, temporal and occipital lobes and joined by the corpus callosum.",

diff --git a/kit/models/memory.js b/kit/models/memory.js
@@ -103,7 +103,7 @@ export default {
     const label = (g, str, y, c = "#ffffff") => { const l = text(str, { size: 0.035, colour: c, bg: "rgba(0,0,0,0.55)" }); l.position.set(0, y, 0); g.add(l); };
     // sensory memory: a fan of fading inputs on the left
     const sen = new THREE.Group(); sen.position.set(-0.85, 0.4, 0);
-    sen.add(new THREE.Mesh(new THREE.SphereGeometry(0.11, 48, 32), holo("#5ef0ff", "#0d3b52", 0.8)));
+    sen.add(new THREE.Mesh(new THREE.SphereGeometry(0.11, 48, 32), holo("#bfdcea", "#0d3b52", 0.8)));
     for (const [i, c] of [[0, "#ffe066"], [1, "#5ef0ff"], [2, "#f055dd"], [3, "#6bffb8"]]) { const ic = new THREE.Mesh(i % 2 ? new THREE.TorusGeometry(0.025, 0.008, 12, 32) : new THREE.OctahedronGeometry(0.025), mat(c, { detail: "none", emissive: new THREE.Color(c).multiplyScalar(0.3) })); ic.position.set(-0.22, -0.12 + i * 0.08, 0); sen.add(ic); }
     label(sen, "Sensory memory", 0.17); add("sensory", sen);
     // working memory: the central executive and its three slaves, inside a glass dome

diff --git a/kit/models/dog.js b/kit/models/dog.js
@@ -133,7 +133,7 @@ export default {
     const { THREE, V, holo, mat, bone, limb, tube, taper, blob, add, decor } = k;
     const L = [-1, 1], b = bone();
     // the holographic body (head towards +z)
-    const skinMat = holo(), skin = new THREE.Group();
+    const skinMat = holo("#a87d58", "#3a2818", 0.4), skin = new THREE.Group();   // the coat, see-through
     const torso = new THREE.Mesh(blob(0.15, 0.95, 1.05, 2.6, (v) => { if (v.z < -0.1) { const q = 1 + (v.z + 0.1) * 1.6; v.x *= q; v.y = v.y * q + (1 - q) * 0.03; } if (v.y < -0.05 && v.z > -0.1 && v.z < 0.15) v.y -= 0.03; }, 96), skinMat); torso.position.set(0, 0.47, 0); skin.add(torso);
     skin.add(limb(V(0, 0.52, 0.3), V(0, 0.66, 0.47), 0.075, skinMat));
     const head = new THREE.Mesh(blob(0.085, 0.9, 0.9, 1.1), skinMat); head.position.set(0, 0.71, 0.55); skin.add(head);

diff --git a/sw.js b/sw.js
@@ -1,6 +1,6 @@
 // Gradify service worker: lets the site open offline.
 // Network first, so a new deploy shows straight away; the cache is the fallback.
-const CACHE = "gradify-v29";
+const CACHE = "gradify-v30";
 const SHELL = [
   "./", "index.html", "app.html", "manifest.webmanifest", "gradify.config.js",
   // homepage
